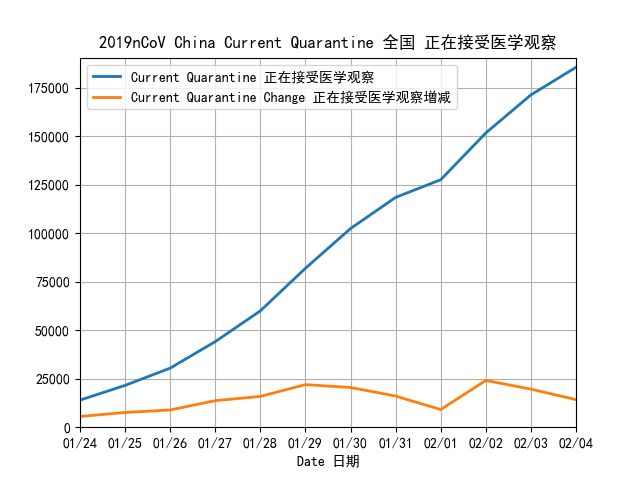
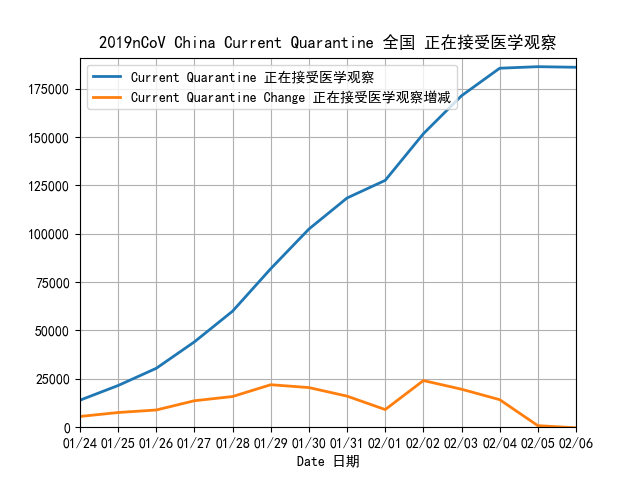
updated for Feb 6 data

diff --git a/plotCharts.py b/plotCharts.py
@@ -1,0 +1,31 @@
+from datetime import datetime, timedelta
+import pandas as pd
+import numpy as np
+import matplotlib as mpl
+import matplotlib.pyplot as plt
+from matplotlib.dates import DateFormatter
+
+mpl.rcParams['font.family']="SimHei"
+mpl.rcParams['axes.unicode_minus']=False # in case minus sign is shown as box
+
+dfData = pd.read_csv('data.csv')
+dfChina = dfData[dfData['Region']=='China']
+
+nChina = len(dfChina)
+
+#NewCases
+plt.figure(1)
+newConfirmed, = plt.plot(dfChina['Date'], dfChina['NewConfirmed1'], '-', linewidth=2, c='y')
+newSevere, = plt.plot(dfChina['Date'], dfChina['NewSevere2'], '-', linewidth=2, c='r')
+newDeaths, = plt.plot(dfChina['Date'], dfChina['NewDeaths3'], '-', linewidth=2, c='black')
+newReleased, = plt.plot(dfChina['Date'], dfChina['NewReleased4'], '-', linewidth=2, c='g')
+newSuspected, = plt.plot(dfChina['Date'], dfChina['NewSuspected5'], '-', linewidth=2, c='b')
+plt.axis((dfChina['Date'][0], dfChina['Date'][nChina-1], 0, 5500))
+plt.xticks(dfChina['Date'], dfChina['Date'])
+plt.xlabel('Date 日期')
+plt.title('2019nCoV China NewCases 全国 新增')
+plt.grid(True)
+plt.legend([newSuspected, newConfirmed, newSevere, newReleased, newDeaths], [u'New Suspected 新增疑似', u'New Confirmed 新增确诊', u'New Severe 新增重症', u'New Released 新增治愈', u'New Deaths 新增死亡'])
+plt.savefig('NewCases.png')
+
+plt.show()
